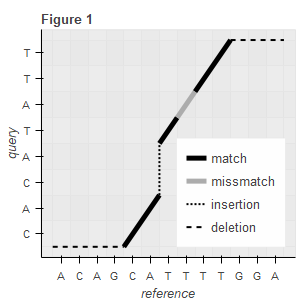
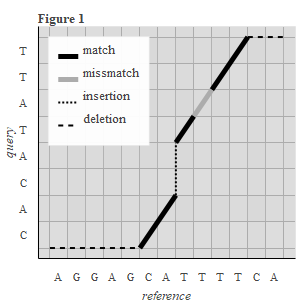
ran some tests made nice pics for paper (gimp can open svg)

diff --git a/paperGraphics.py b/paperGraphics.py
@@ -3,9 +3,10 @@ from bokeh.layouts import row, column
 from bokeh.models import Arrow, OpenHead, NormalHead, VeeHead
 from bokeh.palettes import d3
 from bokeh.io import export_png, export_svgs
-from bokeh.models import FuncTickFormatter, FixedTicker
+from bokeh.models import FuncTickFormatter, FixedTicker, Label
 import math
 
+font = "Times New Roman"
 
 greys = [
         "#acacac",
@@ -24,17 +25,17 @@ def save(plot, name):
     #show(plot)
 
 resolution = 300
-min_x = -1
-min_y = -1
-max_x = 11
-max_y = 11
+min_x = 0
+min_y = 0
+max_x = 10
+max_y = 10
 
 
 plot = figure(
             title="Figure 2",
             plot_width=resolution, plot_height=resolution,
-            x_range=(min_x+1,max_x-1),
-            y_range=(min_y+1,max_y-1)
+            x_range=(min_x,max_x),
+            y_range=(min_y,max_y)
         )
 plot.axis.visible = False
 plot.grid.grid_line_color = None
@@ -88,9 +89,9 @@ plot.patch(
         patch_y,
         fill_color=greys[2],
         fill_alpha=.5,
-        line_color=greys[0],
-        line_width=2,
-        line_dash=[2,2],
+        line_color=None,
+        #line_width=2,
+        #line_dash=[2,2],
         legend="seed-shadow"
     )
 
@@ -102,15 +103,27 @@ plot.line(
         line_width=5
     )
 
+plot.line(
+        [4,6,6,8],
+        [0,2,8,10],
+        legend="path",
+        color="black",
+        line_dash=[2,2],
+        line_width=2
+    )
+
 plot.x(
         [seeds[-1][0]],
         [seeds[-1][1]],
         color="black",
         size=10,
         line_width=3,
-        legend="P"
     )
 
+plot.add_layout(
+        Label(x=6.3, y=7.5, text='P', text_font=font, text_color="black") 
+    )
+"""
 plot.add_layout(Arrow(end=OpenHead(line_color="black",size=10),
     x_start=seeds[0][0] + seeds[0][2], y_start=seeds[0][1] + seeds[0][2], 
     x_end=seeds[0][0] + seeds[0][2]+1, y_end=seeds[0][1] + seeds[0][2]))
@@ -118,8 +131,13 @@ plot.add_layout(Arrow(end=OpenHead(line_color="black",size=10),
 plot.add_layout(Arrow(end=OpenHead(line_color="black",size=10),
     x_start=seeds[0][0] + seeds[0][2], y_start=seeds[0][1] + seeds[0][2], 
     x_end=seeds[0][0] + seeds[0][2], y_end=seeds[0][1] + seeds[0][2]+1))
+"""
 
-
+plot.title.text_font=font
+plot.legend.label_text_font=font
+plot.legend.label_text_baseline="bottom"
+plot.axis.axis_label_text_font=font
+plot.axis.major_label_text_font=font
 plot.legend.location = "top_left"
 save(plot, "shadows")
 
@@ -130,8 +148,8 @@ MM = "\=M"
 D = "D"
 
 
-query =     [                    "C", "A", "C", "A", "T", "A", "T", "T" ]
-reference = ["A", "C", "A", "G", "C", "A",           "T", "T", "T", "T", "G", "G", "A"]
+query =     [                         "C", "A", "C", "A", "T", "A", "T", "T" ]
+reference = ["A", "G", "G", "A", "G", "C", "A",           "T", "T", "T", "T", "C", "A"]
 """
 for index in range(len(query)):
     query[index] = query[index] + " (" + str(index) + ")"
@@ -139,7 +157,7 @@ for index in range(len(reference)):
     reference[index] = reference[index] + " (" + str(index) + ")"
 """
 
-alignment = [D,D,D,D,M,M,I,I,M,MM,M,M,D,D,D]
+alignment = [D,D,D,D,D,M,M,I,I,M,MM,M,M,D,D]
 
 
 plot = figure(
@@ -148,6 +166,8 @@ plot = figure(
             x_axis_label = "reference", y_axis_label = "query"
         )
 
+plot.xaxis.major_tick_line_color = None
+plot.yaxis.major_tick_line_color = None
 
 cur_x = -.5
 cur_y = -.5
@@ -222,7 +242,7 @@ plot.multi_line(
     )
 
 plot.xaxis.ticker = FixedTicker(ticks=range(len(reference)))
-plot.legend.location = "bottom_right"
+plot.legend.location = "top_left"
 plot.toolbar.logo = None
 plot.toolbar_location = None
 grid = []
@@ -230,7 +250,8 @@ for p in range(-1,len(reference)):
     grid.append(p+.5)
 plot.xgrid.ticker = FixedTicker(ticks=grid)
 plot.xgrid.band_fill_color = greys[3]
-plot.xgrid.band_fill_alpha = 0.1
+plot.xgrid.band_fill_alpha = 0.2
+plot.xgrid.grid_line_color = greys[0]
 plot.xaxis.formatter = FuncTickFormatter(code="""
     var labels = %s;
     return labels[tick];
@@ -241,13 +262,19 @@ for p in range(-1,len(query)):
     grid.append(p+.5)
 plot.ygrid.ticker = FixedTicker(ticks=grid)
 plot.ygrid.band_fill_color = greys[3]
-plot.ygrid.band_fill_alpha = 0.1
+plot.ygrid.band_fill_alpha = 0.2
+plot.ygrid.grid_line_color = greys[0]
 plot.yaxis.formatter = FuncTickFormatter(code="""
     var labels = %s;
     return labels[tick];
 """ % query)
 
 
+plot.title.text_font=font
+plot.legend.label_text_font=font
+plot.legend.label_text_baseline="bottom"
+plot.axis.axis_label_text_font=font
+plot.axis.major_label_text_font=font
 save(plot, "alignment")
 
 
@@ -257,31 +284,11 @@ plot = figure(
             x_axis_label = "reference", y_axis_label = "query"
         )
 
-
-plot.line(
-    [-.5,7.5],
-    [-.5,7.5],
-    color=greys[0],
-    legend="strip of consideration",
-    line_width=3,
-    line_dash=[2,2]
-)
-
-plot.line(
-    [5.5,12.5],
-    [-.5,6.5],
-    color=greys[0],
-    legend="strip of consideration",
-    line_width=3,
-    line_dash=[2,2]
-)
-
-
 plot.patch(
         [-.5,7.5,12.5,12.5,5.5],
         [-.5,7.5,7.5,6.5,-.5],
         fill_color=greys[2],
-        fill_alpha=.5,
+        fill_alpha=.75,
         line_color=None,
         #line_width=2,
         #line_dash=[2,2],
@@ -290,15 +297,36 @@ plot.patch(
 
 
 plot.line(
+    [-.5,7.5],
+    [-.5,7.5],
+    color="black",
+    legend="strip of consideration",
+    line_width=1,
+    line_dash=[2,2]
+)
+
+plot.line(
+    [5.5,12.5],
+    [-.5,6.5],
+    color="black",
+    legend="strip of consideration",
+    line_width=1,
+    line_dash=[2,2]
+)
+
+plot.line(
     [5.5,7.5],
     [2.5,4.5],
     color="black",
-    legend="seed",
+    legend="anchor",
     line_width=5
 )
 
+
+plot.xaxis.major_tick_line_color = None
+plot.yaxis.major_tick_line_color = None
 plot.xaxis.ticker = FixedTicker(ticks=range(len(reference)))
-plot.legend.location = "bottom_right"
+plot.legend.location = "top_left"
 plot.toolbar.logo = None
 plot.toolbar_location = None
 grid = []
@@ -306,7 +334,8 @@ for p in range(-1,len(reference)):
     grid.append(p+.5)
 plot.xgrid.ticker = FixedTicker(ticks=grid)
 plot.xgrid.band_fill_color = greys[3]
-plot.xgrid.band_fill_alpha = 0.1
+plot.xgrid.band_fill_alpha = 0.2
+plot.xgrid.grid_line_color = greys[0]
 plot.xaxis.formatter = FuncTickFormatter(code="""
     var labels = %s;
     return labels[tick];
@@ -317,10 +346,16 @@ for p in range(-1,len(query)):
     grid.append(p+.5)
 plot.ygrid.ticker = FixedTicker(ticks=grid)
 plot.ygrid.band_fill_color = greys[3]
-plot.ygrid.band_fill_alpha = 0.1
+plot.ygrid.band_fill_alpha = 0.2
+plot.ygrid.grid_line_color = greys[0]
 plot.yaxis.formatter = FuncTickFormatter(code="""
     var labels = %s;
     return labels[tick];
 """ % query)
 
+plot.title.text_font=font
+plot.legend.label_text_font=font
+plot.legend.label_text_baseline="hanging"
+plot.axis.axis_label_text_font=font
+plot.axis.major_label_text_font=font
 save(plot, "stripOfConsideration")

diff --git a/pythonTest.py b/pythonTest.py
@@ -402,7 +402,6 @@ def make_runtime_breakdown():
 #creating samples int the database
 #createSampleQueries(human_genome, db_name, 1000, 100, 256)
 
-
 def test_my_approach(
             db_name,
             reference,
@@ -414,7 +413,8 @@ def test_my_approach(
             strips_of_consideration=True,
             low_res = False,
             re_seed = None,
-            max_sweep = None
+            max_sweep = None,
+            strip_size = 500
         ):
     print("collecting samples (" + name + ") ...")
     reference_pledge = Pledge(Pack())
@@ -459,7 +459,8 @@ def test_my_approach(
         num_anchors=num_anchors,
         strips_of_consideration=strips_of_consideration,
         re_seed=re_seed,
-        max_sweep=max_sweep
+        max_sweep=max_sweep,
+        strip_size=strip_size
     )
 
     #temp code
@@ -515,14 +516,23 @@ def test_my_approaches():
     #clearResults(db_name, human_genome, "Bs:50000 SoC:5 sLs")
     #test_my_approach(db_name, human_genome, "Bs:50000 SoC:5 sLs", max_hits=50000, seg=LongestLRSegments())
 
-    clearResults(db_name, human_genome, "pBs:5 SoC:100 sLs:5")
-    test_my_approach(db_name, human_genome, "pBs:5 SoC:100 sLs:5", num_anchors=100, max_sweep=5)
+    clearResults(db_name, human_genome, "pBs:5 SoC:100,500nt sLs:5")
+    test_my_approach(db_name, human_genome, "pBs:5 SoC:100,500nt sLs:5", num_anchors=100, max_sweep=5)
 
-    clearResults(db_name, human_genome, "pBs:5 SoC:100 sLs:1")
-    test_my_approach(db_name, human_genome, "pBs:5 SoC:100 sLs:1", num_anchors=100, max_sweep=1)
+    clearResults(db_name, human_genome, "pBs:5 SoC:100,500nt sLs:1")
+    test_my_approach(db_name, human_genome, "pBs:5 SoC:100,500nt sLs:1", num_anchors=100, max_sweep=1)
 
-    clearResults(db_name, human_genome, "pBs:5 SoC:1 sLs:inf")
-    test_my_approach(db_name, human_genome, "pBs:5 SoC:1 sLs:inf", num_anchors=1)
+    clearResults(db_name, human_genome, "pBs:5 SoC:1,500nt sLs:inf")
+    test_my_approach(db_name, human_genome, "pBs:5 SoC:1,500nt sLs:inf", num_anchors=1)
+
+    clearResults(db_name, human_genome, "pBs:5 SoC:1,100nt sLs:inf")
+    test_my_approach(db_name, human_genome, "pBs:5 SoC:1,100nt sLs:inf", num_anchors=1, strip_size=100)
+
+    clearResults(db_name, human_genome, "pBs:5 SoC:1,10000nt sLs:inf")
+    test_my_approach(db_name, human_genome, "pBs:5 SoC:1,10000nt sLs:inf", num_anchors=1, strip_size=10000)
+
+    clearResults(db_name, human_genome, "pBs:5 SoC:1,1000000nt sLs:inf")
+    test_my_approach(db_name, human_genome, "pBs:5 SoC:1,1000000nt sLs:inf", num_anchors=1, strip_size=1000000)
 
     #clearResults(db_name, human_genome, "pBsr:1000 SoC:10 sLs")
     #test_my_approach(db_name, human_genome, "pBsr:1000 SoC:10 sLs", max_hits=1000, num_anchors=10, re_seed=0)
@@ -679,13 +689,11 @@ def manualCheckSequences():
         print(str(ref_seq.extract_from_to(query_orig, query_orig+100)))
         print("")
 
-
 #manualCheckSequences()
 #exit()
 
 #exit()
-createSampleQueries(human_genome, db_name, 1000, 100, 64, True)
-test_my_approaches()
+#createSampleQueries(human_genome, db_name, 1000, 100, 64, True)
+#test_my_approaches()
 analyse_all_approaches(1000, 100)
 #compare_chaining_linesweep_visual()
-

diff --git a/LAuS/setupaligner.py b/LAuS/setupaligner.py
@@ -37,14 +37,15 @@ def set_up_aligner(
         num_anchors=5,
         strips_of_consideration=True,
         re_seed = None,
-        max_sweep = None
+        max_sweep = None,
+        strip_size = 500
         ):
 
     anc = NlongestIntervalsAsAnchors(num_anchors, max_hits)
 
     bucketing = Bucketing()
     bucketing.max_hits = max_hits
-    bucketing.strip_size = 250
+    bucketing.strip_size = strip_size
 
     max_sweep_n = 0
     if not max_sweep is None:
